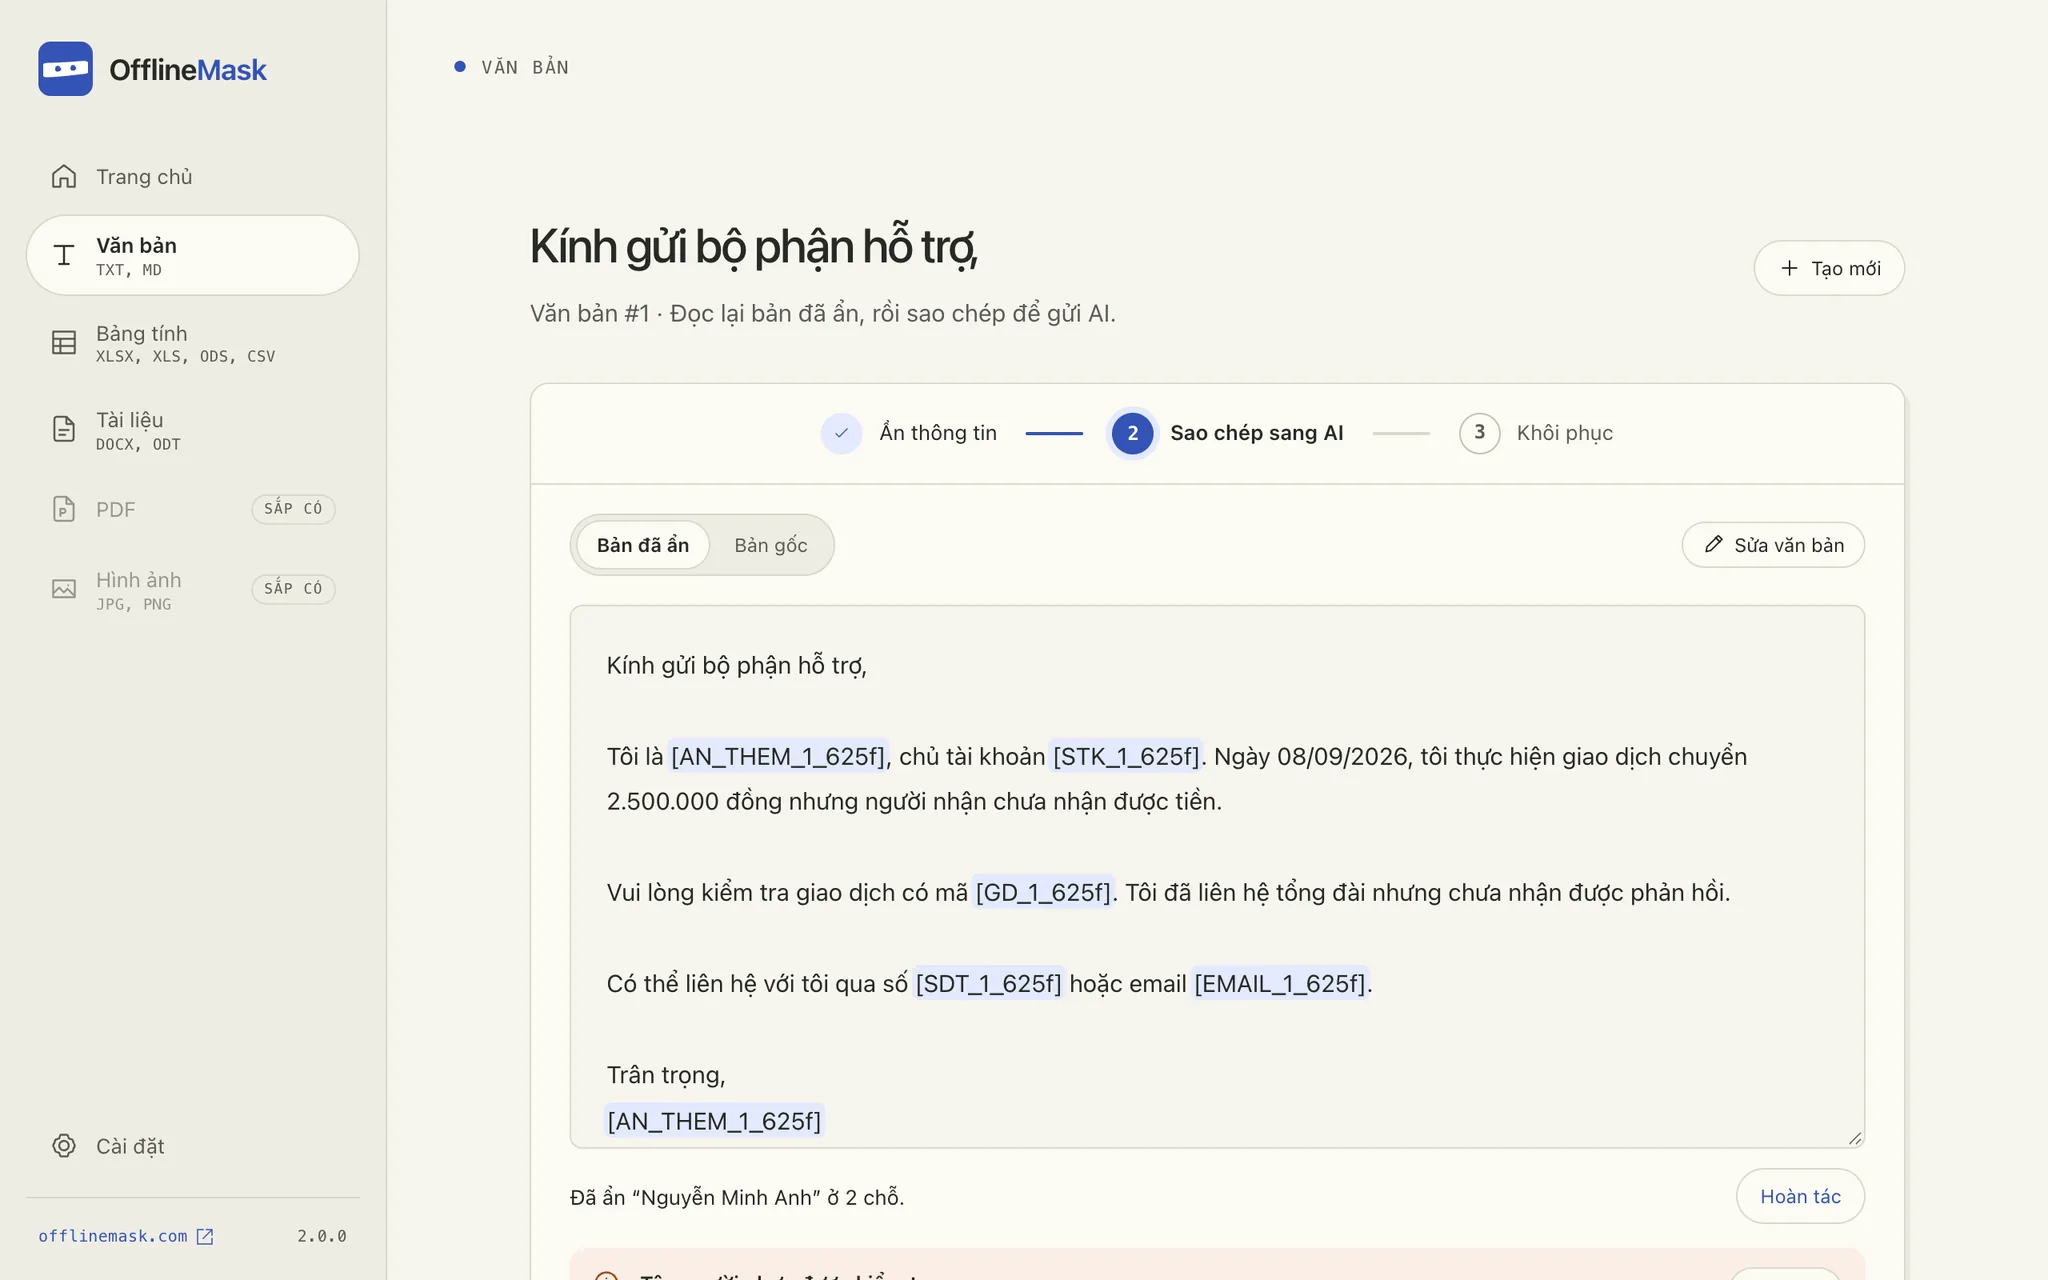
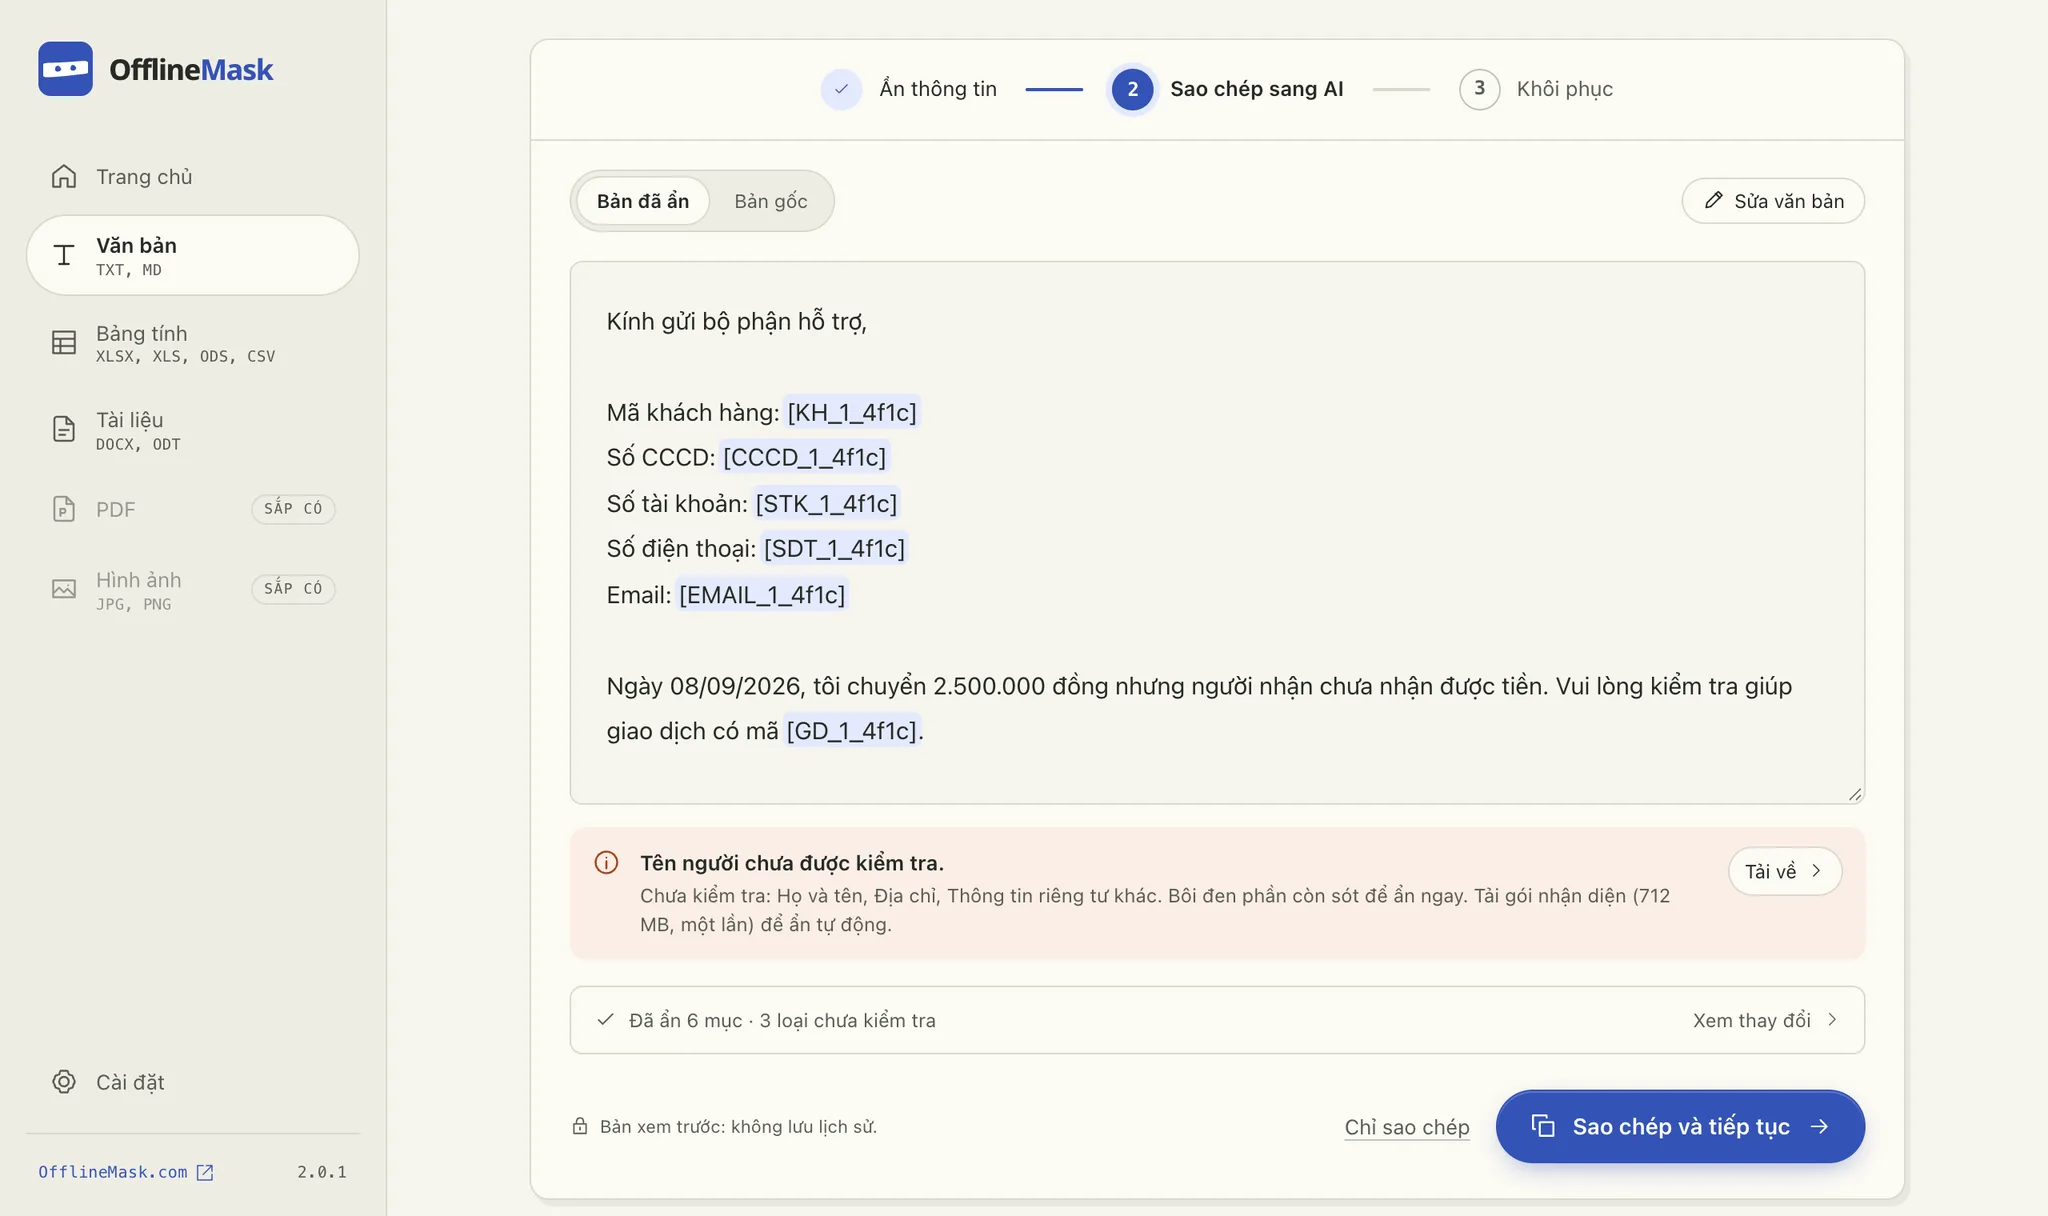
feat(landing): fresh app shots with a name-free sample, chips off the UI, quieter toggle

diff --git a/landing/product.html b/landing/product.html
@@ -44,7 +44,7 @@
             class="om-scan-under"
             src="./shots/text-original.webp"
             width="2048"
-            height="1280"
+            height="1216"
             alt=""
             aria-hidden="true"
           />
@@ -52,21 +52,21 @@
             class="om-scan-over"
             src="./shots/text-masked.webp"
             width="2048"
-            height="1280"
+            height="1216"
             fetchpriority="high"
-            alt="Ứng dụng OfflineMask với một thư mẫu: tên, số tài khoản, mã giao dịch, số điện thoại và email đã được thay bằng mã như [STK_1_625f]."
+            alt="Ứng dụng OfflineMask với một thư mẫu: mã khách hàng, số CCCD, số tài khoản, số điện thoại, email và mã giao dịch đã được thay bằng mã như [STK_1_4f1c]."
           />
           <span class="om-scan-line" aria-hidden="true"></span>
         </div>
         <span class="om-sticker" aria-hidden="true" data-om-sticker>Chạy<br />offline</span>
         <span class="om-float om-float-a" aria-hidden="true" data-om-float
-          ><s>001234567890</s><b data-om-code>[STK_1_625f]</b></span
+          ><s>001234567890</s><b data-om-code>[STK_1_4f1c]</b></span
         >
         <span class="om-float om-float-b" aria-hidden="true" data-om-float
-          ><s>minh.anh@example.com</s><b data-om-code>[EMAIL_1_625f]</b></span
+          ><s>0901234567</s><b data-om-code>[SDT_1_4f1c]</b></span
         >
       </figure>
-      <p class="om-hero-caption">Ảnh chụp ứng dụng thật · Dữ liệu mẫu có sẵn trong ứng dụng</p>
+      <p class="om-hero-caption">Ảnh chụp ứng dụng thật · Thư mẫu, thông tin hư cấu</p>
     </section>
 
     <section class="om-why om-wrap" id="om-why" aria-labelledby="om-why-title">
@@ -139,9 +139,9 @@
               class="om-step-shot"
               src="./shots/text-original.webp"
               width="2048"
-              height="1280"
+              height="1216"
               loading="lazy"
-              alt="Bản gốc trong OfflineMask, các thông tin định danh được tô sáng."
+              alt="Bản gốc trong OfflineMask: mã khách hàng, số tài khoản, số điện thoại và email được tô sáng."
             />
           </li>
           <li data-om-step>
@@ -155,7 +155,7 @@
               class="om-step-shot"
               src="./shots/text-masked.webp"
               width="2048"
-              height="1280"
+              height="1216"
               loading="lazy"
               alt="Bản đã ẩn trong OfflineMask, sẵn sàng sao chép sang AI."
             />
@@ -171,7 +171,7 @@
               class="om-step-shot"
               src="./shots/text-restored.webp"
               width="2048"
-              height="1280"
+              height="1216"
               loading="lazy"
               alt="Bước khôi phục: câu trả lời của AI có mã được đổi lại thành thông tin thật."
             />
@@ -184,15 +184,15 @@
               <img
                 src="./shots/text-original.webp"
                 width="2048"
-                height="1280"
+                height="1216"
                 alt=""
                 data-om-shot
               />
-              <img src="./shots/text-masked.webp" width="2048" height="1280" alt="" data-om-shot />
+              <img src="./shots/text-masked.webp" width="2048" height="1216" alt="" data-om-shot />
               <img
                 src="./shots/text-restored.webp"
                 width="2048"
-                height="1280"
+                height="1216"
                 alt=""
                 data-om-shot
               />
@@ -281,10 +281,10 @@
             <p class="om-side-label"><span class="om-dot"></span> Máy của bạn</p>
             <h3>Bảng đối chiếu</h3>
             <ul class="om-pairs">
-              <li><span>Nguyễn Minh Anh</span><code>[AN_THEM_1_625f]</code></li>
-              <li><span>001234567890</span><code>[STK_1_625f]</code></li>
-              <li><span>0901234567</span><code>[SDT_1_625f]</code></li>
-              <li><span>minh.anh@example.com</span><code>[EMAIL_1_625f]</code></li>
+              <li><span>KH20931</span><code>[KH_1_4f1c]</code></li>
+              <li><span>001234567890</span><code>[STK_1_4f1c]</code></li>
+              <li><span>0901234567</span><code>[SDT_1_4f1c]</code></li>
+              <li><span>lienhe.kh20931@example.com</span><code>[EMAIL_1_4f1c]</code></li>
             </ul>
             <p class="om-side-foot">Nằm trên máy bạn. Đặt mật mã nếu muốn lưu lại.</p>
           </div>
@@ -293,8 +293,9 @@
             <p class="om-side-label">Công cụ AI (ChatGPT, Claude, Gemini…)</p>
             <h3>AI chỉ thấy</h3>
             <p class="om-ai-text">
-              Tôi là <code>[AN_THEM_1_625f]</code>, chủ tài khoản <code>[STK_1_625f]</code>. Có thể
-              liên hệ qua số <code>[SDT_1_625f]</code> hoặc email <code>[EMAIL_1_625f]</code>.
+              Tôi là khách hàng <code>[KH_1_4f1c]</code>, chủ tài khoản <code>[STK_1_4f1c]</code>.
+              Có thể liên hệ qua số <code>[SDT_1_4f1c]</code> hoặc email
+              <code>[EMAIL_1_4f1c]</code>.
             </p>
             <p class="om-side-foot">
               Bạn tự sao chép hoặc tải lên. OfflineMask không kết nối với AI nào.

diff --git a/landing/product.css b/landing/product.css
@@ -365,17 +365,17 @@
   left: 50%;
   translate: -50% -50%;
   display: inline-flex;
-  padding: 3px;
+  padding: 2px;
   border-radius: 999px;
-  background: #e3e1d8;
+  background: #e6e4db;
 }
 .om-view-toggle button {
-  padding: 3px 14px;
+  padding: 2px 11px;
   border: 0;
   border-radius: 999px;
   background: transparent;
-  color: #595d54;
-  font: 500 13px var(--sans);
+  color: #6b6f66;
+  font: 500 12px var(--sans);
   cursor: pointer;
 }
 .om-view-toggle button[aria-pressed="true"] {
@@ -473,14 +473,16 @@
   text-decoration-color: var(--warm);
   text-decoration-thickness: 2px;
 }
+/* Chips hang off the window edge over empty UI: the sidebar's blank space and the text panel's
+   right margin. */
 .om-float-a {
-  left: -48px;
-  top: 34%;
+  left: -56px;
+  top: 58%;
   transform: rotate(-3deg);
 }
 .om-float-b {
-  right: -40px;
-  bottom: 14%;
+  right: -44px;
+  top: 34%;
   transform: rotate(2deg);
 }
 .om-hero-caption {
